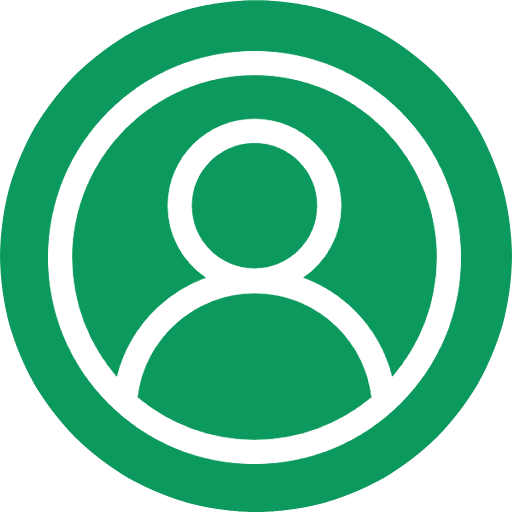
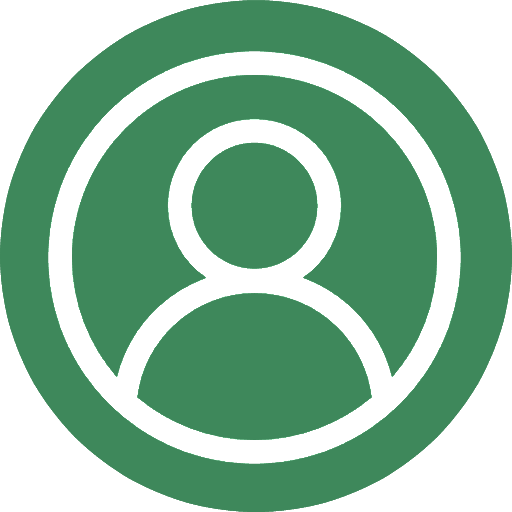
color

diff --git a/asset/css/account.css b/asset/css/account.css
@@ -15,7 +15,7 @@ button:hover{
 
 #add{
     border-radius: 15px;
-    background-color: #f8ffbd;
+    background-color: #C0D7BB;
     position: relative;
     padding: 10px 60px 20px 60px;
 }
@@ -83,7 +83,7 @@ select{
 
 #date_Range{
     border-radius: 15px;
-    background-color: #FFFFCE;
+    background-color: #85BDA6;
     position: relative; top: 30px; left: 720px;
     width: 560px; height: 100px;
     display: flex;
@@ -116,8 +116,8 @@ select{
 
 #data_record{
     border-radius: 15px;
-    background-color: #FFFFCE;
-    position: absolute; top: 250px; left: 0px;
+    background-color: #85BDA6;
+    position: absolute; top: 250px; left: 10px;
     width: 680px; height: 760px;
     padding: 30px 10px 30px 10px;
     font-family: "微軟正黑體";
@@ -172,7 +172,7 @@ select{
 
 #data_chart{
     border-radius: 15px;
-    background-color: #FFFFCE;
+    background-color: #85BDA6;
     position: relative; top: 70px; left: 720px;
     width: 560px; height: 680px;
     display: flex;
@@ -204,7 +204,7 @@ select{
 
 #today{
     border-radius: 10px;
-    background-color: #85b976;
+    background-color: #8abd85;
     position: absolute; top: 25px; left: 635px;
     width: 600px; height: 50px;
     display: flex;

diff --git a/index.html b/index.html
@@ -25,11 +25,11 @@
 
                 <div class="signcontent">
                     <label for="account">帳號：<br></label>
-                    <input type="text" placeholder="你的帳號">
+                    <input type="text" placeholder="你的帳號" >
                 </div>
                 <div class="signcontent">
                     <label for="account">密碼：<br></label>
-                    <input type="password" placeholder="你的密碼">
+                    <input type="password" placeholder="你的密碼" >
                 </div>
                 <div class="signbtn">
                     <input type="submit" value="登入" id="login" onclick="login()">

diff --git a/asset/css/activity.css b/asset/css/activity.css
@@ -52,8 +52,8 @@
 .app a img{
     height: 140px; width: 140px;
     position: relative;top: -190px;left: -5px;
-    border: #0b995e solid 50px;
-    background-color: #0b995e;
+    border: rgb(62, 136, 91) solid 50px;
+    background-color: #3E885B;
 }
 
 .app:hover{
@@ -109,7 +109,7 @@
 .activity:hover{
     box-shadow: white 0 0 30px;
     transition: all 0.4s ease-out;
-    background-color: rgb(45, 105, 77);
+    background-color: #325849;
     height: 200px;
 }
 

diff --git a/asset/css/nav.css b/asset/css/nav.css
@@ -3,7 +3,7 @@
 }
 
 #Nav{
-    background-color: #0b995e;
+    background-color: #3E885B;
     position: absolute;
     top: 0;
     width: 100%;
@@ -16,7 +16,7 @@
 
 #title{
     width: 100%;
-    background-color: #0b995e;
+    background-color: #3E885B;
     padding: 10px 5px 5px 5px;
     display: flex;
     position: relative;

diff --git a/asset/css/main.css b/asset/css/main.css
@@ -1,5 +1,5 @@
 body {
-    background-color: #0b995e;
+    background-color: rgb(62, 136, 91);
     font-family: NSimSun;
     padding: 30px 30px 30px 30px;
 }
